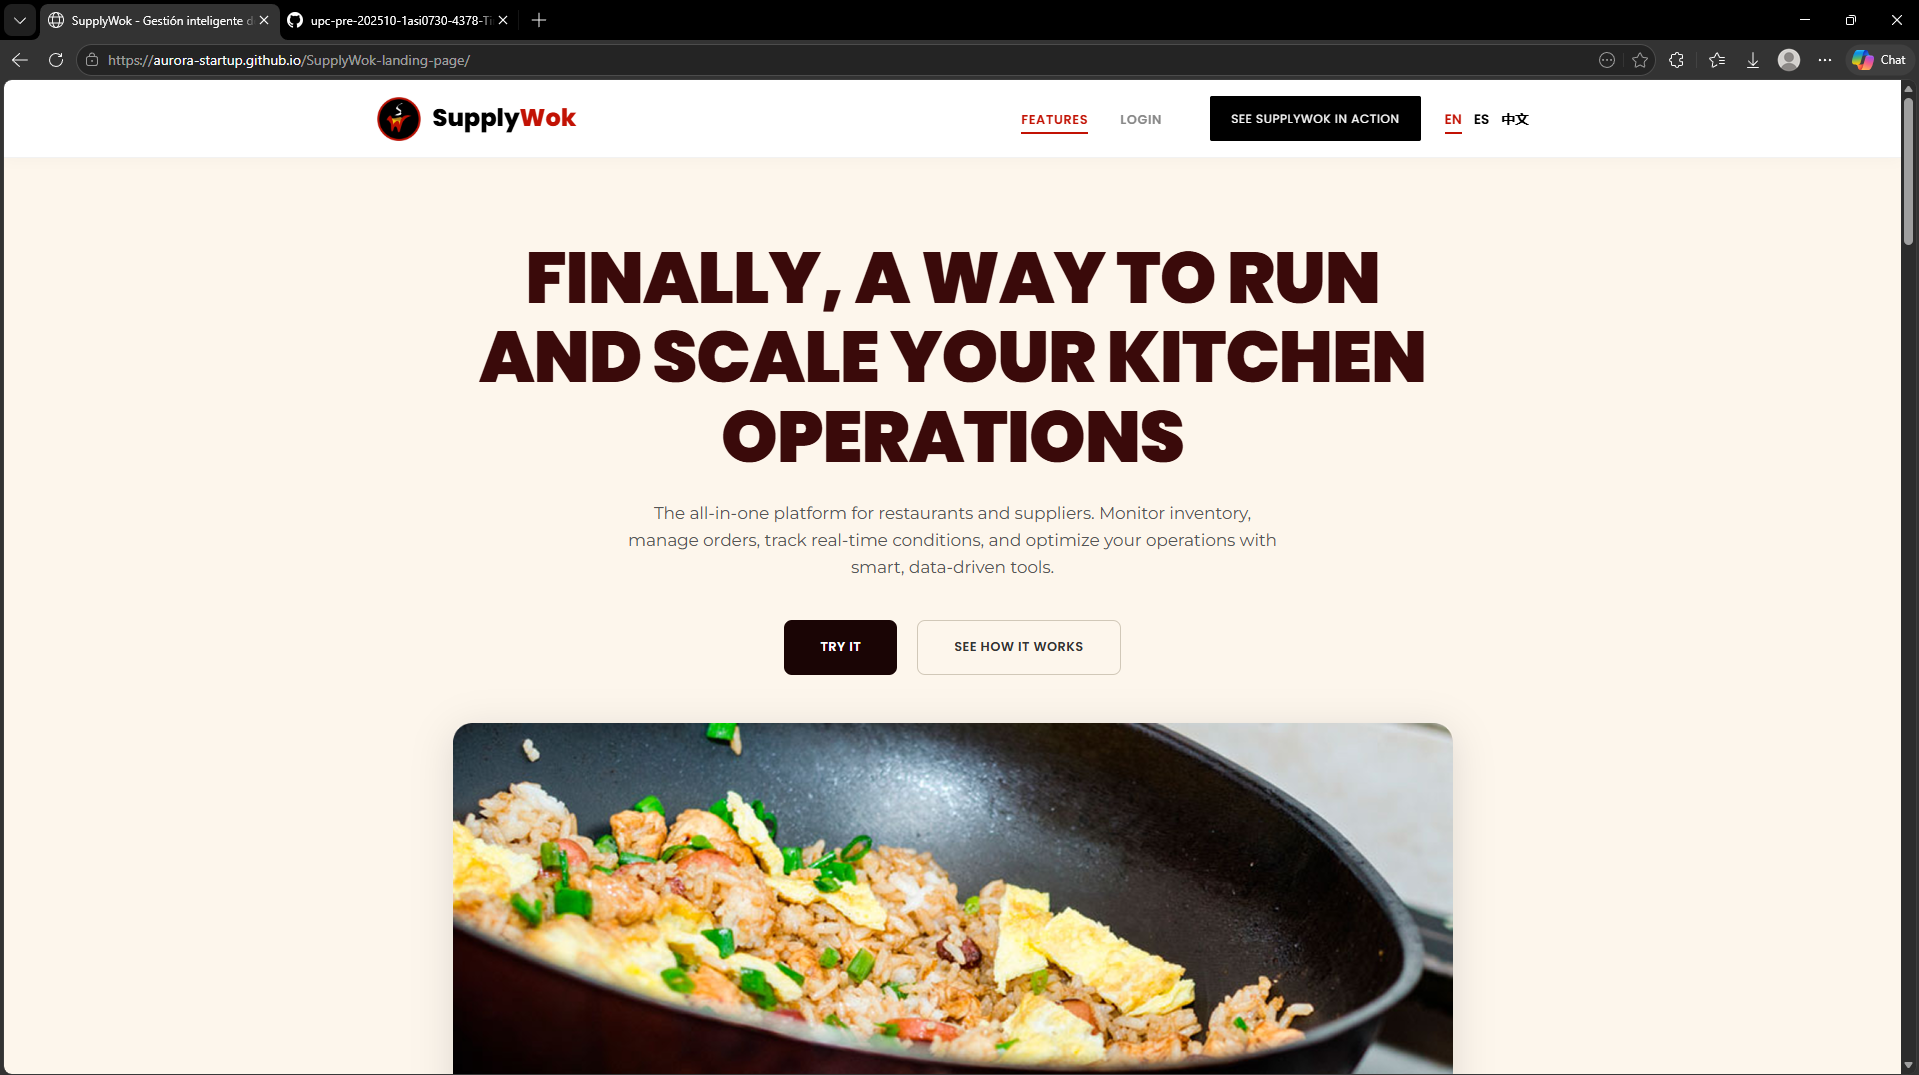
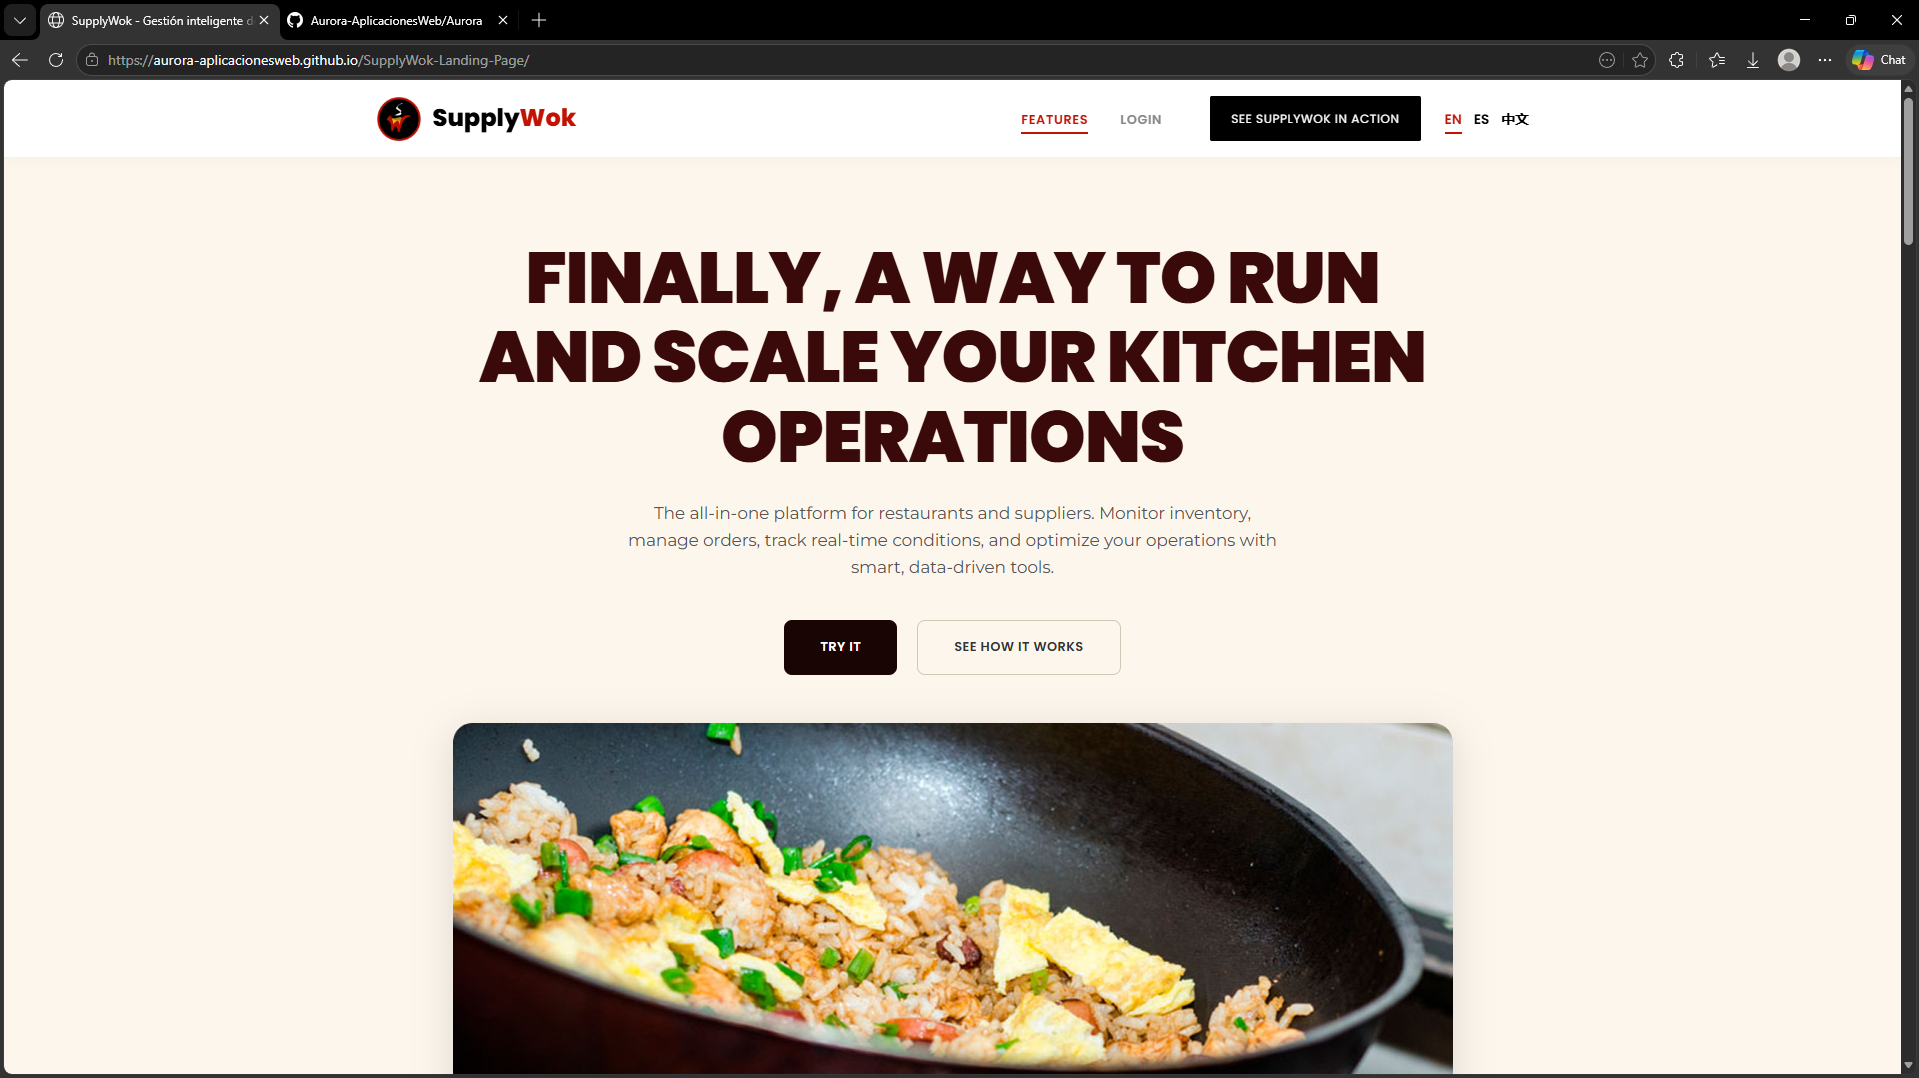
doc(Chapter 5): add proves and deploy for the landing.

diff --git a/report/front-matter/50-chapter-5-product-implementation-validation-&-deployment.md b/report/front-matter/50-chapter-5-product-implementation-validation-&-deployment.md
@@ -281,11 +281,11 @@ En el sprint 1 como equipo nos centramos en la creación de la Landing Page de S
 
 | Team Member {Last Name, First Name} | GitHub username | Estructure HTML | Design UI & responsive | Scripts and UX | SEO and Accessibility | Content and Assets |
 |---|---|---|---|---|---|---|
-| Cuadros, Marcelo | Marcelo-alt-lab | C | C | L | C | C |
-| Payano, Joan | Nounz27 | C | C | C | - | - |
-| Meza, Alexandra | AlexandraYMS | - | L | - | C | C |
-| Ayasta, Zayd | Zayd Ayasta | L | C | C | C | - |
-| Wang, Juan | jwd3t | C | - | C | L | C |
+| Cuadros, Marcelo | Marcelo-alt-lab | L | C | L | C | C |
+| Sanchez, Mathias | Nounz27 | C | L | C | - | - |
+| Jara, Miguel | MiguelJara2 | C | C | C| - | - |
+| Ayasta, Zayd | ZaydAyasta | C | C | C | - | C |
+| Wang, Juan | jwd3t | C | C | C | L | C |
 
 #### 5.2.1.3. Sprint Backlog 1.
 
@@ -293,43 +293,47 @@ En el sprint 1 como equipo nos centramos en la creación de la Landing Page de S
 
 | US Id | US Title | Task Id | Task Title | Description | Estimation (Hours) | Assigned To | Status |
 |---|---|---|---|---|---|---|---|
-| US44 | Página de inicio con hero section | T01 | Crear estructura HTML de la Hero Section | Maquetar la sección principal (Hero) usando etiquetas semánticas de HTML5. | 2 | Zayd Ayasta | To-do |
-| US44 | Página de inicio con hero section | T02 | Implementar estilos CSS de la Hero Section | Aplicar la hoja de estilos base para definir colores, tipografía y disposición. | 2 | Alexandra Meza | To-do |
-| US44 | Página de inicio con hero section | T03 | Implementar CTAs y enlace al formulario de registro | Añadir botones llamativos que redirijan al usuario al proceso de registro. | 1 | Marcelo Cuadros | To-do |
-| US44 | Página de inicio con hero section | T04 | Adaptar Hero Section a diseño responsive | Asegurar que la sección principal se visualice correctamente en dispositivos móviles. | 2 | Zayd Ayasta | To-do |
-| US45 | Sección de características principales | T05 | Crear estructura HTML de la sección de características | Construir la grilla o layout para mostrar los beneficios principales de la plataforma. | 1 | Juan Wang | To-do |
-| US45 | Sección de características principales | T06 | Agregar iconos y estilos visuales a cada característica | Incorporar elementos gráficos y CSS para hacer cada característica visualmente atractiva. | 2 | Alexandra Meza | To-do |
-| US46 | Sección de planes y precios | T07 | Crear estructura HTML de la sección de planes | Maquetar el área donde se mostrarán las opciones de precios y suscripciones. | 1 | Joan Payano | To-do |
-| US46 | Sección de planes y precios | T08 | Implementar estilos de tarjetas de planes y precios | Diseñar visualmente las tarjetas de precios para facilitar la comparación de planes. | 2 | Zayd Ayasta | To-do |
-| US46 | Sección de planes y precios | T09 | Agregar CTA de selección de plan con redirección al registro | Vincular cada tarjeta de precio con el flujo de creación de cuenta. | 1 | Marcelo Cuadros | To-do |
-| US47 | Sección de preguntas frecuentes | T10 | Crear estructura HTML del acordeón FAQ | Maquetar el contenedor base para las preguntas frecuentes de los usuarios. | 1 | Juan Wang | To-do |
-| US47 | Sección de preguntas frecuentes | T11 | Implementar lógica de expansión y colapso de preguntas | Programar la interactividad para mostrar u ocultar respuestas al hacer clic. | 2 | Marcelo Cuadros | To-do |
-| US48 | Navegación y menú principal | T12 | Crear navbar sticky con enlaces de navegación | Implementar un menú de navegación fijo en la parte superior con scroll suave. | 2 | Marcelo Cuadros | To-do |
-| US48 | Navegación y menú principal | T13 | Implementar menú hamburguesa para dispositivos móviles | Desarrollar un menú lateral desplegable para resoluciones de pantalla pequeñas. | 2 | Joan Payano | To-do |
-| US49 | Responsividad total y optimización mobile | T14 | Definir e implementar breakpoints responsive globales | Establecer las reglas CSS de diseño adaptable para toda la página de aterrizaje. | 2 | Zayd Ayasta | To-do |
-| US49 | Responsividad total y optimización mobile | T15 | Verificar tamaño mínimo de elementos interactivos | Validar que botones y enlaces tengan al menos 44px para facilitar el toque en móviles. | 1 | Alexandra Meza | To-do |
-| US49 | Responsividad total y optimización mobile | T16 | Validar que las imágenes no generen scroll horizontal | Asegurar que ningún recurso visual exceda el ancho máximo de la pantalla. | 1 | Zayd Ayasta | To-do |
-| US50 | SEO y accesibilidad web | T17 | Configurar meta tags de SEO (título, descripción, keywords) | Añadir metadatos clave para mejorar la indexación y visibilidad en buscadores. | 1 | Juan Wang | To-do |
-| US50 | SEO y accesibilidad web | T18 | Agregar atributos alt, roles ARIA y estructura semántica HTML5 | Mejorar la accesibilidad para usuarios que dependen de lectores de pantalla. | 2 | Juan Wang | To-do |
-| US50 | SEO y accesibilidad web | T19 | Verificar navegación por teclado y visibilidad del foco | Asegurar que se pueda interactuar con la página usando únicamente el teclado. | 1 | Juan Wang | To-do |
-| US51 | Footer con información adicional | T20 | Crear estructura HTML del footer | Maquetar la sección final de la página para enlaces secundarios y legales. | 1 | Zayd Ayasta | To-do |
-| US51 | Footer con información adicional | T21 | Implementar enlaces a redes sociales y páginas legales | Conectar los iconos sociales y los textos de términos y condiciones. | 1 | Joan Payano | To-do |
-| US52 | Impacto apoyado en cifras | T22 | Crear sección de métricas e impacto con estadísticas | Diseñar un bloque visual que resalte los números clave para generar confianza. | 2 | Joan Payano | To-do |
-| US53 | Muestra del producto | T23 | Integrar galería de imágenes del producto con texto alternativo | Mostrar capturas de la plataforma asegurando que sean accesibles para todos. | 1 | Joan Payano | To-do |
-| US53 | Muestra del producto | T24 | Integrar video del producto con fallback de texto alternativo | Incrustar un video demostrativo con opciones de texto para quienes no puedan verlo. | 2 | Joan Payano | To-do |
-| US54 | Calls to action | T25 | Distribuir CTAs secundarios en secciones clave de la Landing Page | Añadir llamadas a la acción adicionales a lo largo del recorrido del usuario. | 1 | Alexandra Meza | To-do |
-| US55 | Scripts para ocultar contenido | T26 | Implementar scripts de show/hide para contenido condicional | Añadir lógica JavaScript para controlar elementos que se muestran bajo ciertas acciones. | 1 | Marcelo Cuadros | To-do |
-| US56 | Comentarios y nombres de variables | T27 | Agregar comentarios de código y estandarizar nombres de variables | Limpiar y documentar el código fuente para facilitar futuros mantenimientos. | 1 | Juan Wang | To-do |
-| US57 | Sobre el equipo detrás de SupplyWok | T28 | Crear sección del equipo con video y texto alternativo | Maquetar la presentación de los creadores de SupplyWok con soporte multimedia. | 2 | Joan Payano | To-do |
-| US58 | Prioridad en mostrar las funcionalidades a los Restaurantes | T29 | Ordenar sección de funcionalidades priorizando beneficios para restaurantes | Estructurar visualmente el contenido para destacar el valor aportado a los restaurantes. | 1 | Marcelo Cuadros | To-do |
+| US44 | Página de inicio con hero section | T01 | Crear estructura HTML de la Hero Section | Maquetar la sección principal (Hero) usando etiquetas semánticas de HTML5. | 2 | Marcelo Cuadros | Done |
+| US44 | Página de inicio con hero section | T02 | Implementar estilos CSS de la Hero Section | Aplicar la hoja de estilos base para definir colores, tipografía y disposición. | 2 | Mathias Sanchez | Done |
+| US44 | Página de inicio con hero section | T03 | Implementar CTAs y enlace al formulario de registro | Añadir botones llamativos que redirijan al usuario al proceso de registro. | 1 | Marcelo Cuadros | Done |
+| US44 | Página de inicio con hero section | T04 | Adaptar Hero Section a diseño responsive | Asegurar que la sección principal se visualice correctamente en dispositivos móviles. | 2 | Marcelo Cuadros | Done |
+| US45 | Sección de características principales | T05 | Crear estructura HTML de la sección de características | Construir la grilla o layout para mostrar los beneficios principales de la plataforma. | 1 | Juan Wang | Done |
+| US45 | Sección de características principales | T06 | Agregar iconos y estilos visuales a cada característica | Incorporar elementos gráficos y CSS para hacer cada característica visualmente atractiva. | 2 | Mathias Sanchez | Done |
+| US46 | Sección de planes y precios | T07 | Crear estructura HTML de la sección de planes | Maquetar el área donde se mostrarán las opciones de precios y suscripciones. | 1 | Zayd Ayasta | Done |
+| US46 | Sección de planes y precios | T08 | Implementar estilos de tarjetas de planes y precios | Diseñar visualmente las tarjetas de precios para facilitar la comparación de planes. | 2 | Zayd Ayasta | Done |
+| US46 | Sección de planes y precios | T09 | Agregar CTA de selección de plan con redirección al registro | Vincular cada tarjeta de precio con el flujo de creación de cuenta. | 1 | Marcelo Cuadros | Done |
+| US47 | Sección de preguntas frecuentes | T10 | Crear estructura HTML del acordeón FAQ | Maquetar el contenedor base para las preguntas frecuentes de los usuarios. | 1 | Marcelo Cuadros | Done |
+| US47 | Sección de preguntas frecuentes | T11 | Implementar lógica de expansión y colapso de preguntas | Programar la interactividad para mostrar u ocultar respuestas al hacer clic. | 2 | Marcelo Cuadros | Done |
+| US48 | Navegación y menú principal | T12 | Crear navbar sticky con enlaces de navegación | Implementar un menú de navegación fijo en la parte superior con scroll suave. | 2 | Zayd Ayasta | Done |
+| US48 | Navegación y menú principal | T13 | Implementar menú hamburguesa para dispositivos móviles | Desarrollar un menú lateral desplegable para resoluciones de pantalla pequeñas. | 2 | Zayd Ayasta | Done |
+| US49 | Responsividad total y optimización mobile | T14 | Definir e implementar breakpoints responsive globales | Establecer las reglas CSS de diseño adaptable para toda la página de aterrizaje. | 2 | Zayd Ayasta | Done |
+| US49 | Responsividad total y optimización mobile | T15 | Verificar tamaño mínimo de elementos interactivos | Validar que botones y enlaces tengan al menos 44px para facilitar el toque en móviles. | 1 | Miguel Jara | Done |
+| US49 | Responsividad total y optimización mobile | T16 | Validar que las imágenes no generen scroll horizontal | Asegurar que ningún recurso visual exceda el ancho máximo de la pantalla. | 1 | Miguel Jara | Done |
+| US50 | SEO y accesibilidad web | T17 | Configurar meta tags de SEO (título, descripción, keywords) | Añadir metadatos clave para mejorar la indexación y visibilidad en buscadores. | 1 | Miguel Jara | Done |
+| US50 | SEO y accesibilidad web | T18 | Agregar atributos alt, roles ARIA y estructura semántica HTML5 | Mejorar la accesibilidad para usuarios que dependen de lectores de pantalla. | 2 | Miguel Jara | Done |
+| US50 | SEO y accesibilidad web | T19 | Verificar navegación por teclado y visibilidad del foco | Asegurar que se pueda interactuar con la página usando únicamente el teclado. | 1 | Miguel Jara | Done |
+| US51 | Footer con información adicional | T20 | Crear estructura HTML del footer | Maquetar la sección final de la página para enlaces secundarios y legales. | 1 | Miguel Jara | Done |
+| US51 | Footer con información adicional | T21 | Implementar enlaces a redes sociales y páginas legales | Conectar los iconos sociales y los textos de términos y condiciones. | 1 | Zayd Ayasta | Done |
+| US52 | Impacto apoyado en cifras | T22 | Crear sección de métricas e impacto con estadísticas | Diseñar un bloque visual que resalte los números clave para generar confianza. | 2 | Juan Wang | Done |
+| US53 | Muestra del producto | T23 | Integrar galería de imágenes del producto con texto alternativo | Mostrar capturas de la plataforma asegurando que sean accesibles para todos. | 1 | Mathias Sanchez | Done |
+| US53 | Muestra del producto | T24 | Integrar video del producto con fallback de texto alternativo | Incrustar un video demostrativo con opciones de texto para quienes no puedan verlo. | 2 | Mathias Sanchez | Done |
+| US54 | Calls to action | T25 | Distribuir CTAs secundarios en secciones clave de la Landing Page | Añadir llamadas a la acción adicionales a lo largo del recorrido del usuario. | 1 | Marcelo Cuadros | Done |
+| US55 | Scripts para ocultar contenido | T26 | Implementar scripts de show/hide para contenido condicional | Añadir lógica JavaScript para controlar elementos que se muestran bajo ciertas acciones. | 1 | Marcelo Cuadros | Done |
+| US56 | Comentarios y nombres de variables | T27 | Agregar comentarios de código y estandarizar nombres de variables | Limpiar y documentar el código fuente para facilitar futuros mantenimientos. | 1 | Marcelo Cuadros | Done |
+| US57 | Sobre el equipo detrás de SupplyWok | T28 | Crear sección del equipo con video y texto alternativo | Maquetar la presentación de los creadores de SupplyWok con soporte multimedia. | 2 | Marcelo Cuadros | Done |
+| US58 | Prioridad en mostrar las funcionalidades a los Restaurantes | T29 | Ordenar sección de funcionalidades priorizando beneficios para restaurantes | Estructurar visualmente el contenido para destacar el valor aportado a los restaurantes. | 1 | Marcelo Cuadros | Done |
 
 #### 5.2.1.4. Development Evidence for Sprint Review.
 
-Se presentaran las capturas que muestran el despliegue de la Landing Page en GitHub Pages.
+Se presentaran las capturas que muestran el despliegue de la Landing Page en GitHub Pages en el navegador, en este caso en el navegador de Microsoft Edge.
 
 ![first](../assets/images/deploy-steps/prove-1.png)
 
+Aqui se puede diferenciar el funcionamiento de los distintos idiomas en los que se encuentra disponible la Landing Page, en este caso chino.
+
 ![second](../assets/images/deploy-steps/prove-2.png)
+
+Aqui esta el enlace a la pagina desplegada: [SupplyWok landing page](https://aurora-aplicacionesweb.github.io/SupplyWok-Landing-Page/)
 
 #### 5.2.1.5. Execution Evidence for Sprint Review.
 
@@ -357,5 +361,7 @@ Luego de unos minutos, el deploy se realizara correctamente:
 ![fourth-step](../assets/images/deploy-steps/step-4.png)
 
 #### 5.2.1.8. Team Collaboration Insights during Sprint.
+
+Se anexa evidencia de la participación del equipo en el desarrollo de la Landing Page segun el report de commits que da el repositorio de GitHub.
 
 ![Team Collaboration](../assets/images/deploy-steps/participation.png)
